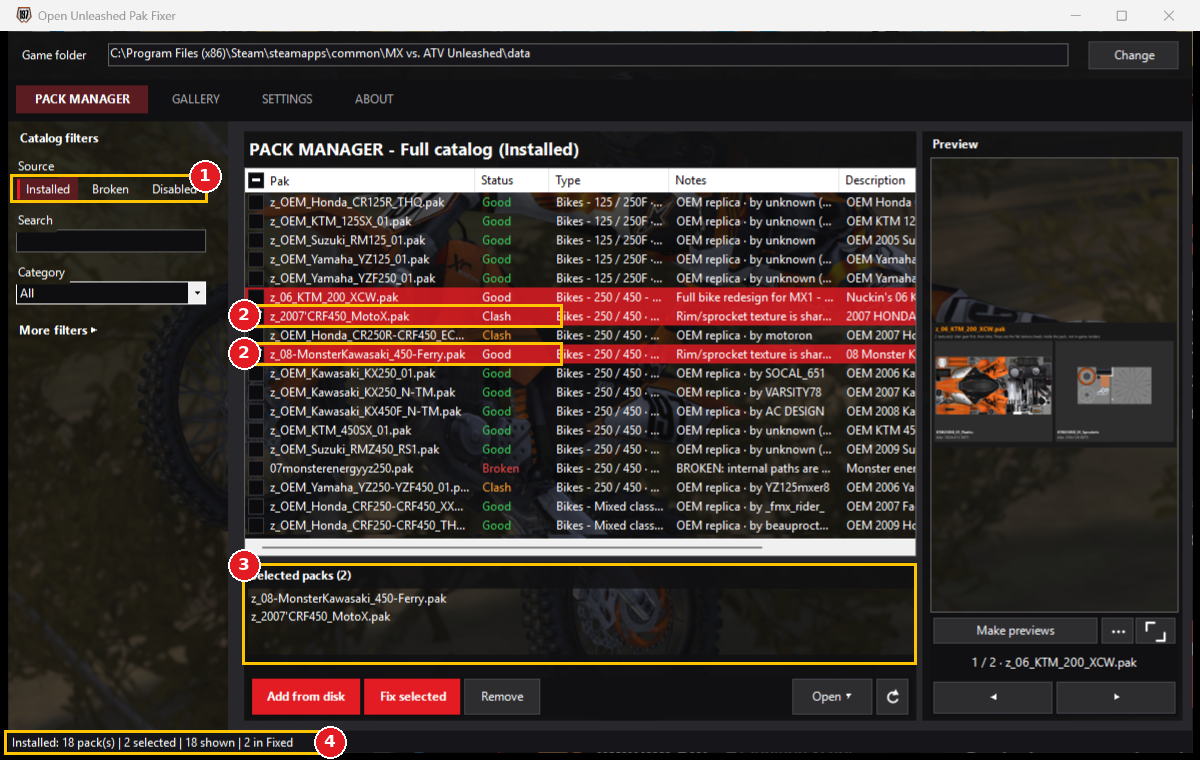
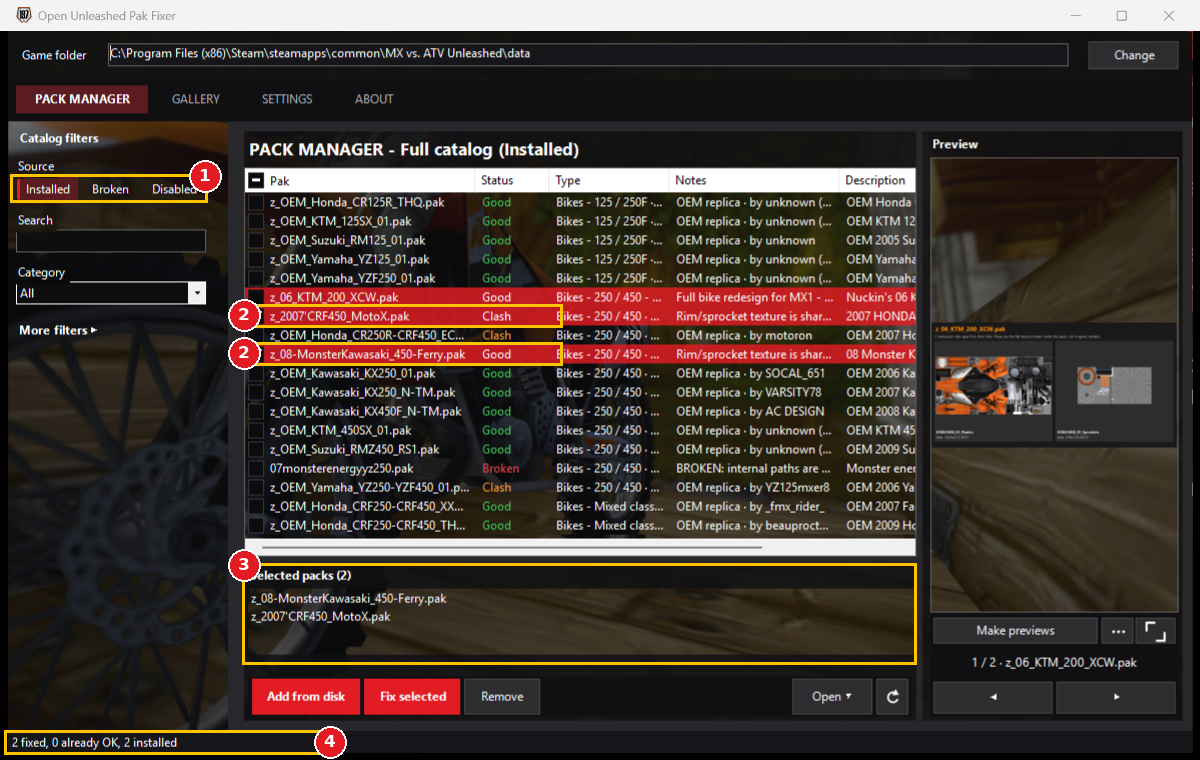
Add FAQ.txt; sync README.txt with README.md; guide updates and red X section

diff --git a/GUIDE.md b/GUIDE.md
@@ -7,7 +7,9 @@ All folders below are inside the `OU Pak Fixer` folder unless it says *game fold
 - [1. Startup](#1-startup)
 - [2. PACK MANAGER](#2-pack-manager)
 - [3. Showroom](#3-showroom)
+- [Red X boxes and the "Cannot convert null" error](#red-x-boxes-and-cannot-convert-null-to-type-systemdrawingcolor)
 - [Fallback: FIX PAKS.bat and MANAGE PACKS.bat](#fallback-fix-paksbat-and-manage-packsbat)
+- [FAQ](#faq)
 
 ## 1. Startup
 
@@ -53,17 +55,17 @@ Run **`OPEN UI.bat`**. The app opens on **PACK MANAGER > Installed**, which list
 3. Check the list under **Selected packs**.
 4. Click **Fix selected**:
    - **Yes**: fix and install into the game.
-   - **No**: fix only. The paks go to `Pack Files\Disabled`.
+   - **No**: fix only. The paks go to `Pack Files\Disabled`, and the app switches to **Disabled** with them ticked.
    - **Cancel**: do nothing.
 
 **After:**
 
 ![The fixed paks installed](guide/fig4-fix-after.png)
 
-1. The app switches back to **Installed**.
+1. After **Yes**, the app switches to **Installed** by itself.
 2. The two fixed paks are now in the game. They were renamed so they load after the game's own files (`$2007'CRF450_MotoX.pak` became `z_2007'CRF450_MotoX.pak`). One is **Good**. The other shows **Clash**, because an installed pak already replaces the same bike.
-3. They are still ticked under **Selected packs**.
-4. The status bar shows the result.
+3. They are ticked and listed under **Selected packs**, ready for the next step (for example **Make previews**).
+4. The status bar shows the result (how many were fixed and installed).
 
 - A copy of each fixed pak is kept in `Pack Files\Fixed`, and the untouched original goes to `Pack Files\Originals`.
 - If the game is running, the fixer waits for you to close it.
@@ -76,7 +78,7 @@ Run **`OPEN UI.bat`**. The app opens on **PACK MANAGER > Installed**, which list
 ### Disabled paks
 **Disabled** lists the paks in `Pack Files\Disabled`. Tick them and click **Install selected** to put them back in the game; they are fixed on the way in if needed.
 
-The included skin, Nuckin's 06 KTM 200 XC-W (`z_06_KTM_200_XCW.pak`), ships here. Tick it and click **Install selected**, then pick the **KTM 250 SX** in game.
+The included skin, Nuckin's 06 KTM 200 XC-W (`z_06_KTM_200_XCW.pak`), ships here. Tick it and click **Install selected**, then pick the **KTM 250 SX** with the **Team KTM 250** livery in game. It replaces that livery.
 
 ### Where everything lives
 
@@ -107,12 +109,22 @@ Open **GALLERY > Showroom** and press **Search**. Every bike livery and gear ite
 4. **Filters**: Category, Subtype, Bike class, Sort, Has preview, Clashes, Clash-free only.
 5. How many items match, and **Tick all**: ticks every card shown, or unticks them all when they are all ticked.
 6. **Card**: click it to preview. It shows the bike and livery it replaces (for example `CR125R THQ_01`), the slot type and the source pak. Its checkbox ticks it for Make previews.
-7. **3D preview** of the selected bike with your rider settings. Here: Nuckin's 06 KTM 200 XC-W on the KTM 250 SX.
+7. **3D preview** of the selected bike with your rider settings. Here: Nuckin's 06 KTM 200 XC-W on the KTM 250 SX (it replaces the Team KTM 250 livery).
 8. **Make previews**, **...**, full screen, and arrows to step through cards.
 
 Set **Category** to **Rider gear** and press **Search** again to see helmets, jerseys, goggles and boots. Gear previews show the texture itself.
 
 3D renders are cached in `Pack Manager\Previews`, so they load instantly next time.
+
+## Red X boxes and "Cannot convert null to type System.Drawing.Color"
+
+![Red X boxes with the Cannot convert null error](guide/fig7-red-x-error.png)
+
+If the panels turn into red X boxes and this error pops up, the window failed to redraw itself. Partway through a redraw it lost access to its theme colors (for example while a folder picker was open over it), so its see-through panels could not be drawn. Once a panel fails to draw, Windows shows a red X in its place until the app is restarted.
+
+It is harmless. Nothing was changed in the game, your paks or your save.
+
+To clear it, click **Continue**, close the app and run **`OPEN UI.bat`** again.
 
 ## Fallback: FIX PAKS.bat and MANAGE PACKS.bat
 
@@ -122,3 +134,7 @@ These two console tools are the original working concepts behind the Pak Fixer. 
 - **`Pack Manager\MANAGE PACKS.bat`**: a numbered menu to turn paks on and off, fix installed paks, make previews and save loadouts.
 
 Both use the same folders as the app, so you can switch between them freely.
+
+## FAQ
+
+Questions and troubleshooting are in [FAQ.txt](OU%20Pak%20Fixer/FAQ.txt), which is also in the `OU Pak Fixer` folder.

diff --git a/README.md b/README.md
@@ -22,9 +22,17 @@ On the release page, scroll to **Assets** and click the **.zip** file. Don't use
 3. Extract it anywhere. You get one folder, `OU Pak Fixer`.
 4. Run **`OPEN UI.bat`** in that folder.
 
+## Quick start
+1. Run **`OPEN UI.bat`**. The game's `data` folder is found automatically (click **Change** on the top bar if it is wrong).
+2. Put downloaded `.pak` files in `Pack Files\Broken`.
+3. **PACK MANAGER > Broken**: tick the paks, click **Fix selected**, then **Yes** to install them. The app switches to **Installed** with the fixed paks ticked.
+4. **GALLERY > Showroom > Search** previews every installed bike and gear item.
+
+The included skin, Nuckin's 06 KTM 200 XC-W (`z_06_KTM_200_XCW.pak`), is in `Pack Files\Disabled`. Install it from **PACK MANAGER > Disabled > Install selected**, then pick the **KTM 250 SX** with the **Team KTM 250** livery in game.
+
 ## In game
 
-Nuckin's clean 06 KTM 200 XC-W (`z_06_KTM_200_XCW.pak`, included in the zip) working in game.
+Nuckin's clean 06 KTM 200 XC-W (`z_06_KTM_200_XCW.pak`, included in the zip) working in game. It replaces the Team KTM 250 livery on the KTM 250 SX.
 
 <table>
   <tr>
@@ -44,39 +52,10 @@ Nuckin's clean 06 KTM 200 XC-W (`z_06_KTM_200_XCW.pak`, included in the zip) wor
   </tr>
 </table>
 
-## FAQ and troubleshooting
-
-**What do Good, Broken and Clash mean?**
-- **Good**: ready to go.
-- **Broken**: the pak needs fixing (bad texture headers, or a name that loads before the game's own files, such as one starting with `$`). Tick it and click **Fix selected**.
-- **Clash**: another installed pak replaces the same item. Only one shows in game. Remove the one you don't want.
-
-**How do I find my game folder?**
-The app finds it by itself. If it picks the wrong one, click **Change** on the top bar and choose the game's `data` folder (the one with `common.pak`). For Steam that is usually `C:\Program Files (x86)\Steam\steamapps\common\MX vs. ATV Unleashed\data`. In Steam you can also right-click the game > **Manage** > **Browse local files** and open `data`.
-
-**A skin doesn't show up in game.**
-- Check its status in **PACK MANAGER > Installed**. Broken paks must be fixed first.
-- If it says **Clash**, another pak replaces the same item. Remove the other one.
-- Make sure you picked the right bike and team/livery in game. The Showroom card shows which bike and livery the skin replaces.
-- Restart the game after installing or removing paks.
-
-**Windows blocks the .bat or PowerShell.**
-- Right-click the downloaded zip > **Properties** > tick **Unblock** > **OK**, then extract it again.
-- If SmartScreen shows "Windows protected your PC", click **More info** > **Run anyway**.
-- The .bat files start PowerShell with `-ExecutionPolicy Bypass` for this app only. Your system setting is not changed.
-
-**How do I undo or uninstall?**
-- To take a pak out of the game: tick it under **Installed** and click **Remove**. It moves to `Pack Files\Disabled`, and nothing is deleted.
-- To restore an original download: the untouched copy is in `Pack Files\Originals`.
-- To uninstall the app: remove your paks from the game first if you want the game back to stock, then delete the `OU Pak Fixer` folder. The app never changes the game's own paks or your save.
-
-**Where can I get more skins?**
-The [MVA Unleashed Mod Collection on ModDB](https://www.moddb.com/mods/mva-unleashed-mod-collection). Put downloaded paks in `Pack Files\Broken` and fix them from **PACK MANAGER > Broken**.
-
-**If the window app won't start**
-`FIX PAKS.bat` and `Pack Manager\MANAGE PACKS.bat` do the same fixing and turning paks on/off from a console window. See the [User Guide](GUIDE.md#fallback-fix-paksbat-and-manage-packsbat).
-
 ## Credits and thanks
 The included skin, Nuckin's 06 KTM 200 XC-W, is by NuckinFutz197. Thanks to the community skin creators and to the MVA Unleashed Mod Collection. See [CREDITS.md](CREDITS.md).
 
 All rights reserved.
+
+## FAQ
+Questions and troubleshooting are in [FAQ.txt](OU%20Pak%20Fixer/FAQ.txt), which is also in the `OU Pak Fixer` folder.
